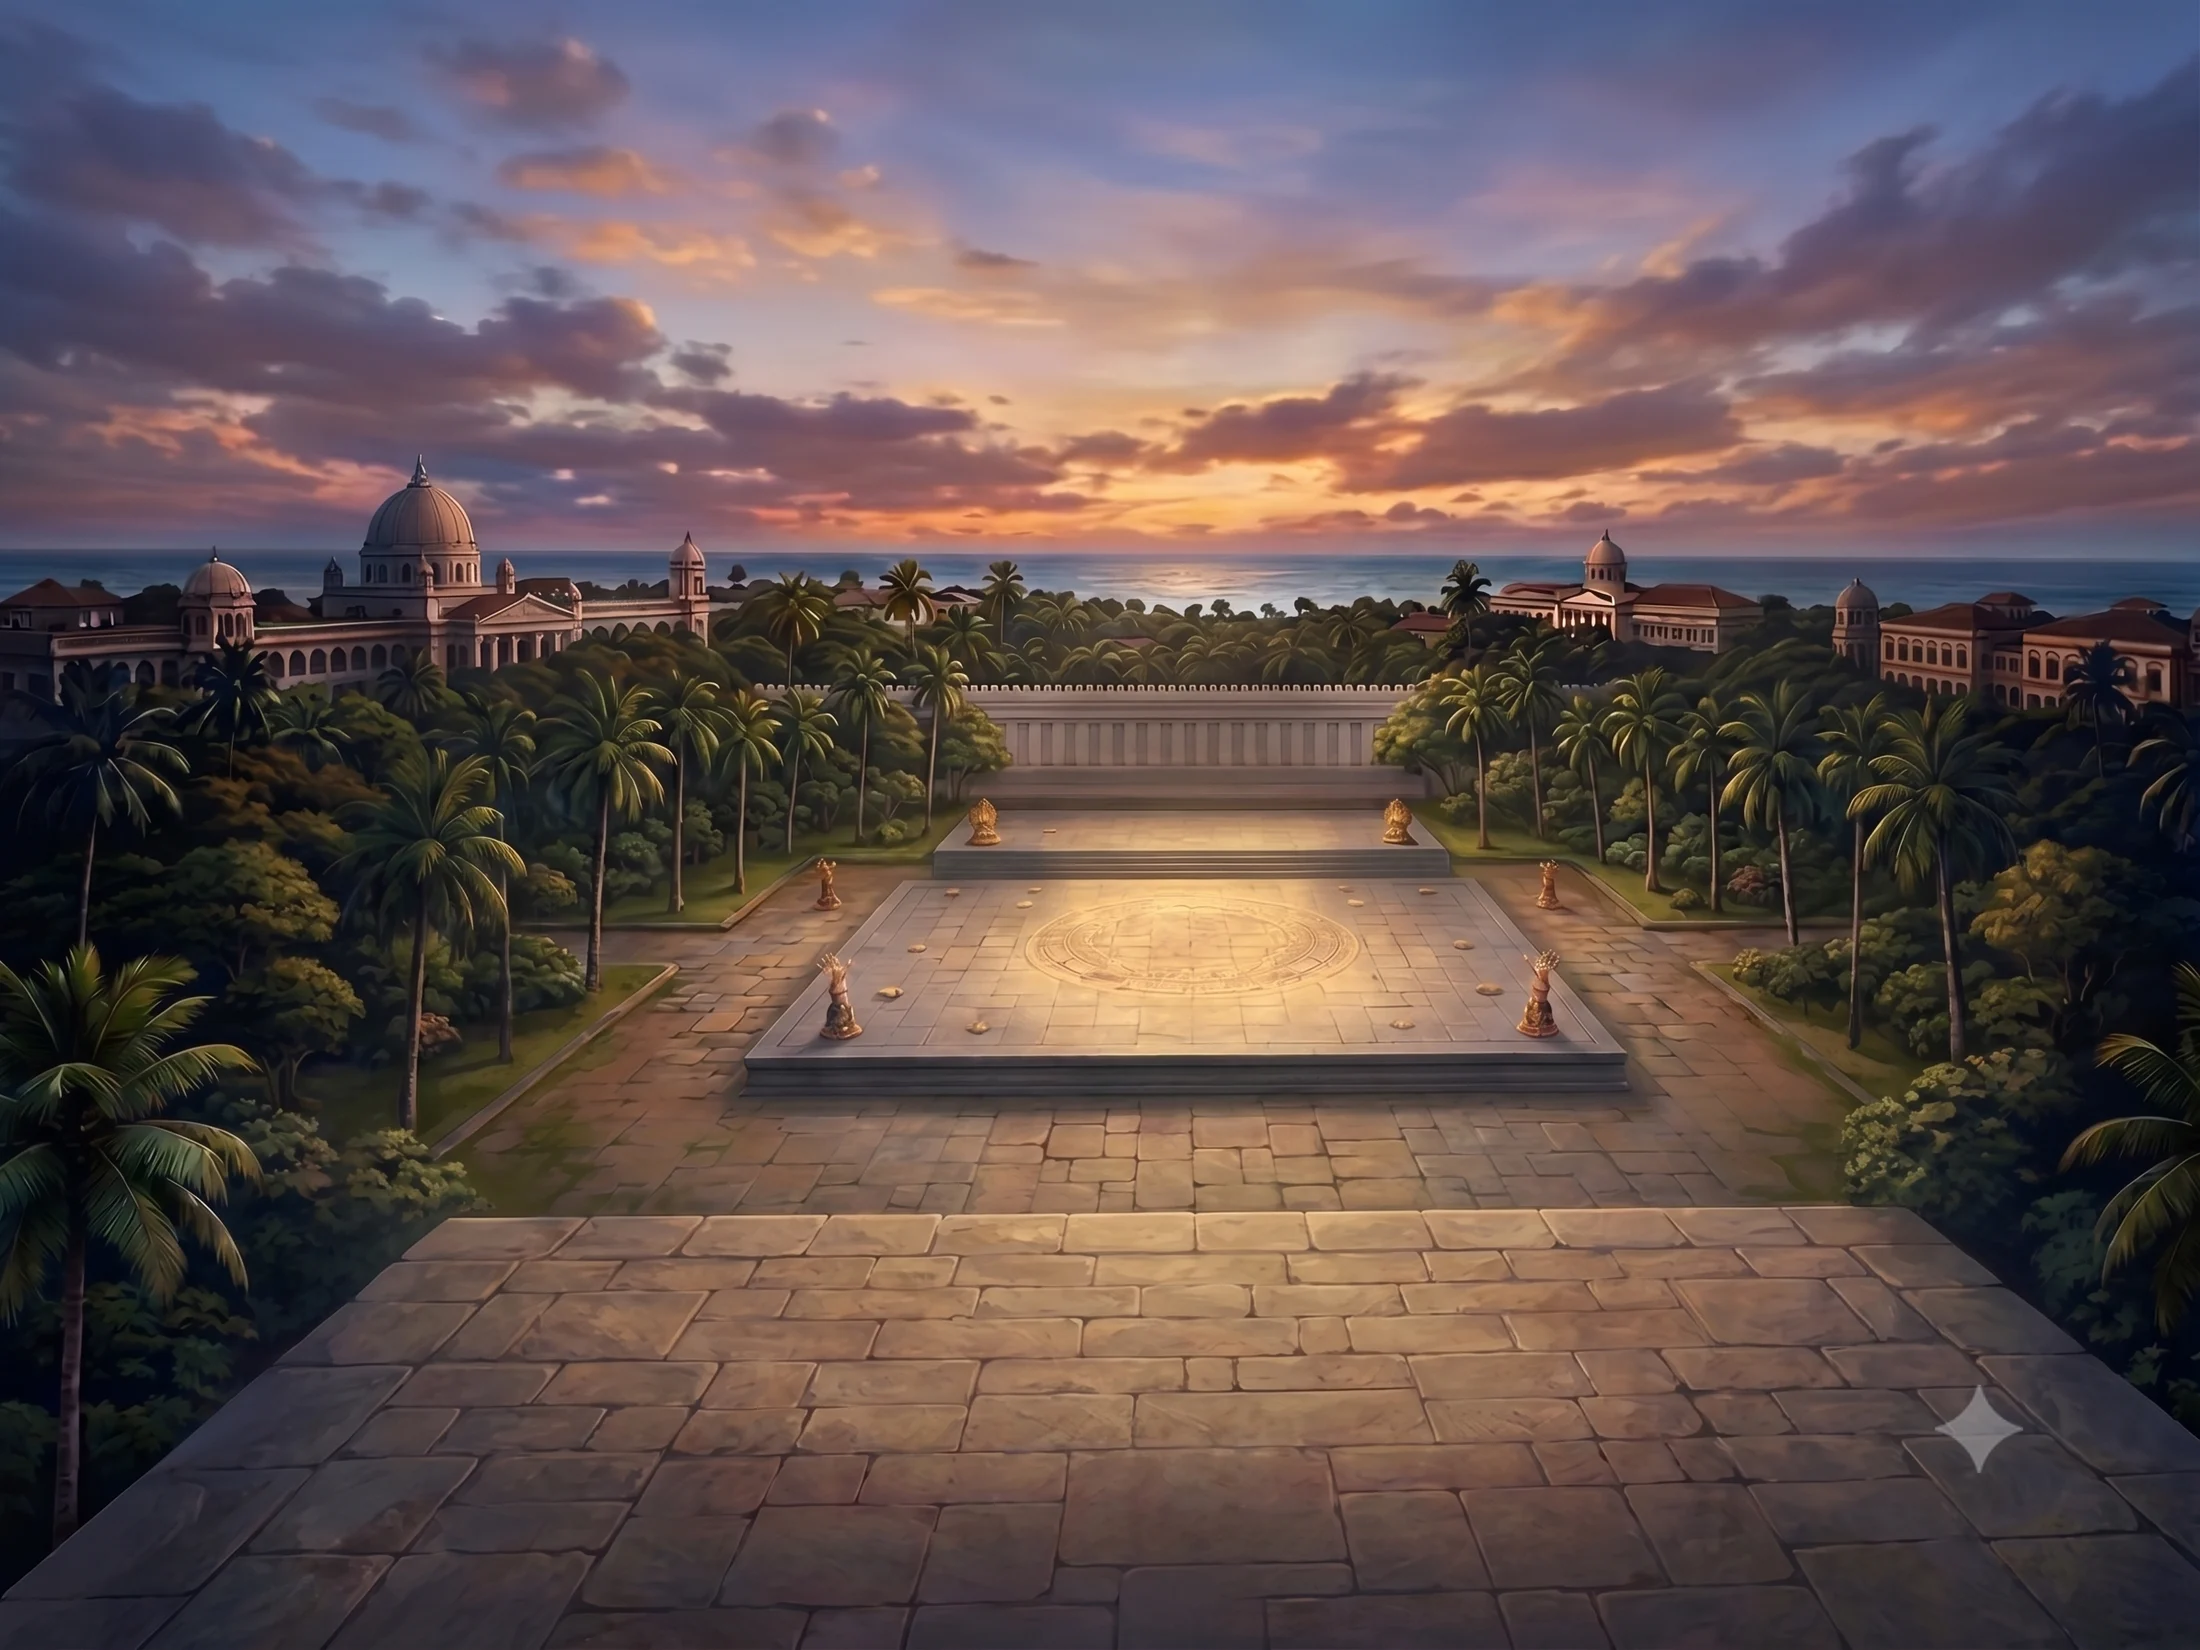
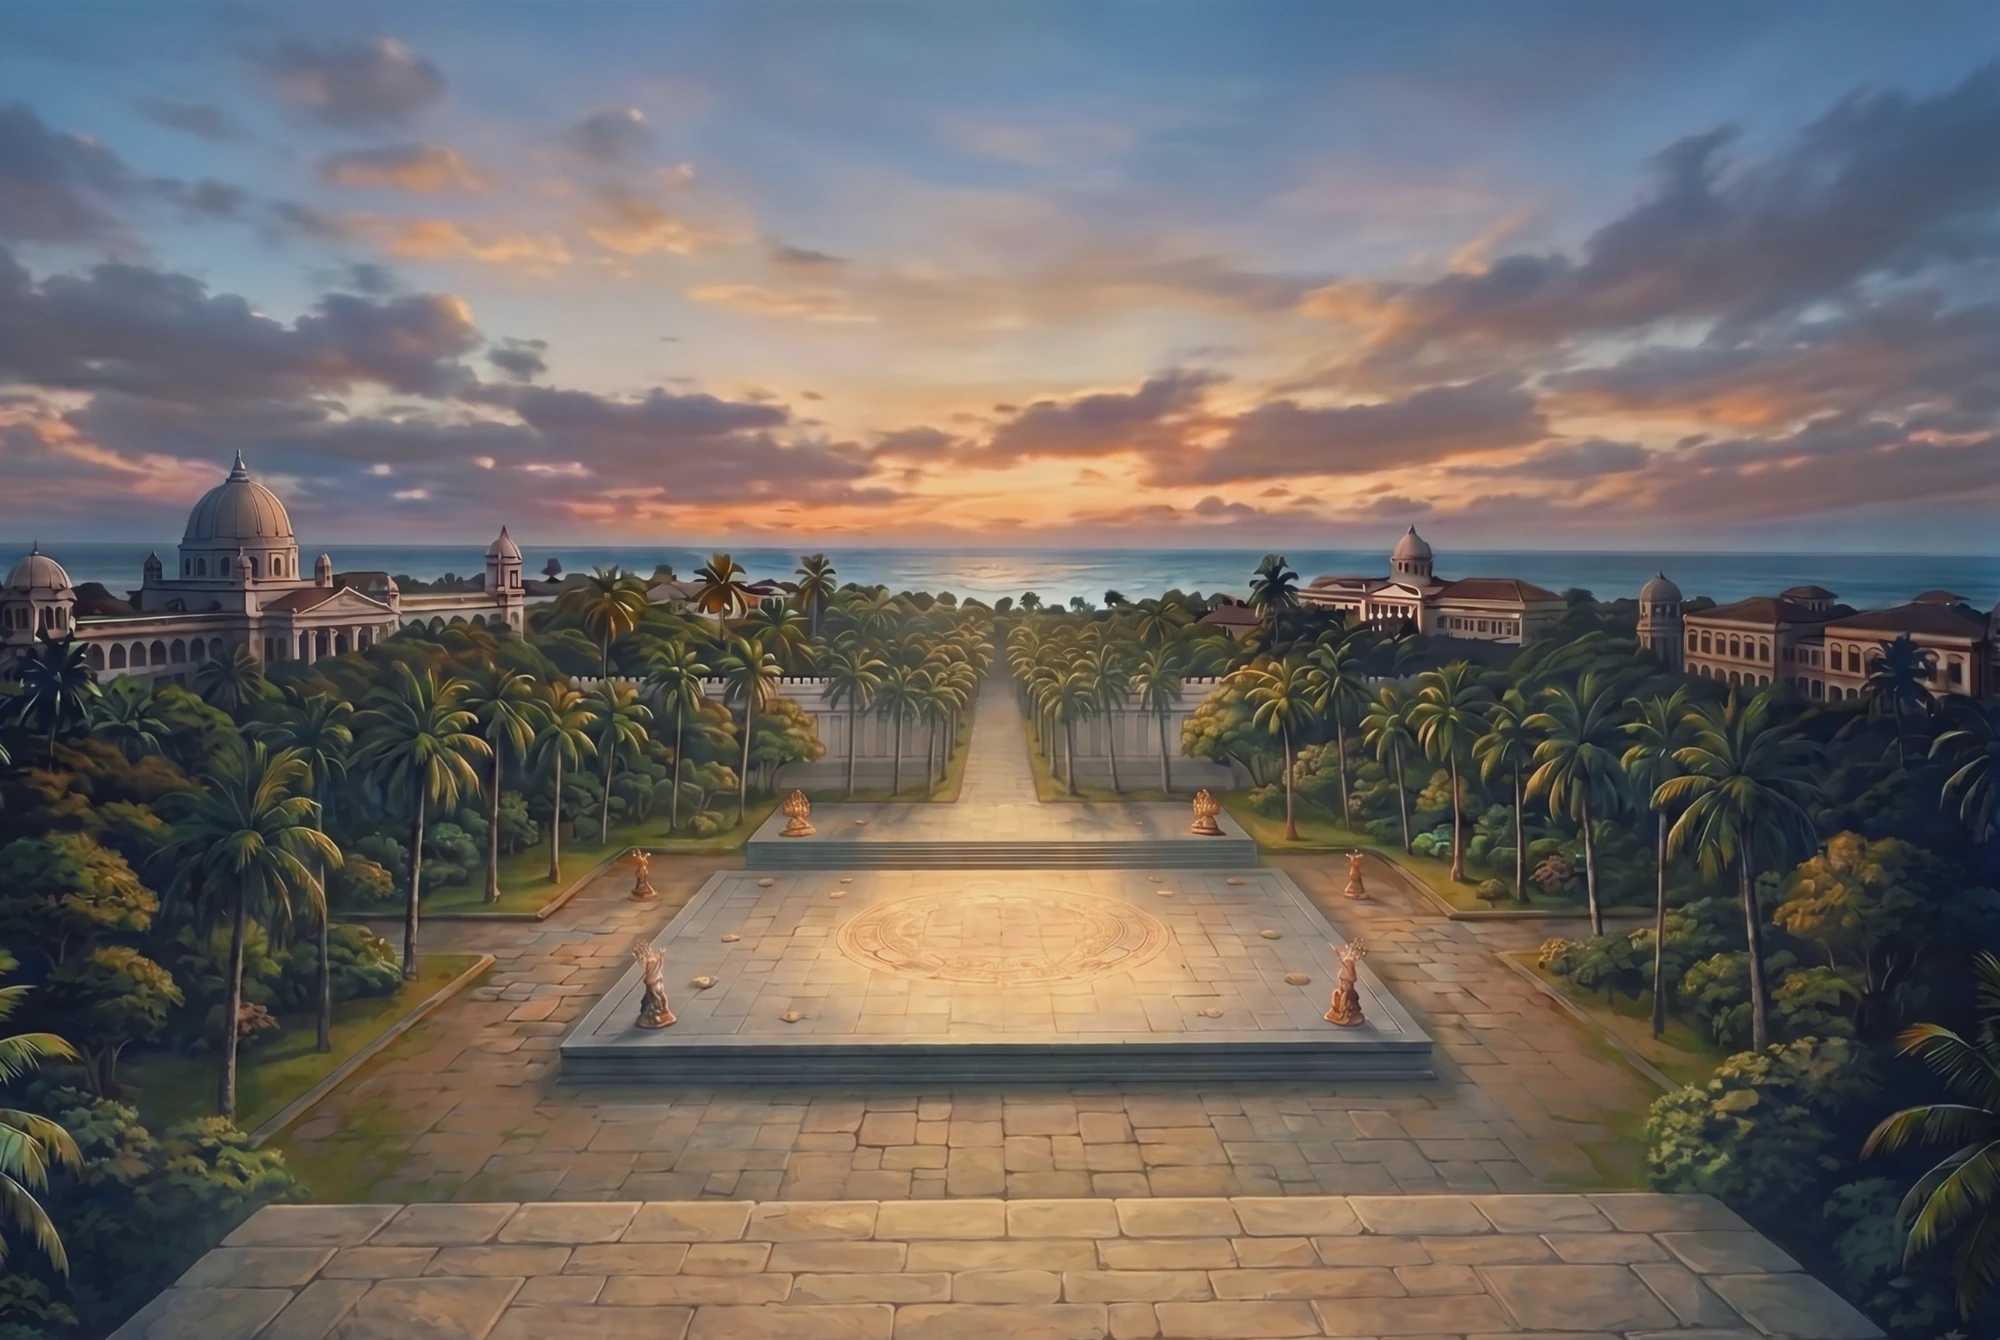
Swap hero backdrop to the wider courtyard crop, realign temple/altar
The old backdrop (aspect 2390:1792) was noticeably narrower than typical
desktop browser windows, so the aspect-ratio-locked scene box overflowed
vertically and got cropped hard — statues/temple filled almost the whole
frame with the sky and courtyard barely visible. Assets/Natyanjali
Hero/Background image.png crops much closer to the viewport's natural
aspect ratio, so far less gets cut off at typical window sizes. Koburam
and the Sivalingam/Nandhi altar group are repositioned (bottom: 39% and
23%) to sit back on this backdrop's own platform artwork, measured by
pixel-sampling where the painted steps/mandala actually fall.

diff --git a/components/Hero.tsx b/components/Hero.tsx
@@ -70,13 +70,13 @@ export default function Hero() {
            land on the same spot in the painting regardless of viewport shape ===== */}
       <div className="courtyard-scene absolute z-0 pointer-events-none" aria-hidden
            style={{ top: '50%', left: '50%', transform: 'translate(-50%,-50%)',
-                    width: 'max(100%, calc(100vh * 2390 / 1792))', aspectRatio: '2390 / 1792' }}>
+                    width: 'max(100%, calc(100vh * 2000 / 1340))', aspectRatio: '2000 / 1340' }}>
         <Image src="/images/courtyard-backdrop.webp" alt="New Kathiresan Kovil courtyard at dusk" fill priority quality={90}
                sizes="100vw" className="object-cover" />
 
         {/* Koburam — rises behind the altar platform, centered between the palm trees */}
         <div className="koburam-layer absolute pointer-events-none"
-             style={{ width: '13%', bottom: '52%', left: '50%', transform: 'translateX(-50%)', aspectRatio: '2000 / 1985' }}>
+             style={{ width: '13%', bottom: '39%', left: '50%', transform: 'translateX(-50%)', aspectRatio: '2000 / 1985' }}>
           <Image src="/images/koburam.webp" alt="Koburam — temple tower" fill quality={90}
                  sizes="(max-width: 768px) 26vw, 280px" className="object-contain"
                  style={{ objectPosition: 'center bottom', filter: 'drop-shadow(0 10px 20px rgba(0,0,0,.5))' }} />
@@ -85,7 +85,7 @@ export default function Hero() {
         {/* Altar group — Sivalingam (glowing, neon-rimmed) with Nandhi seated in front, on the mandala platform.
             All three (Koburam above, Sivalingam+Nandhi here) share left:50% of the same courtyard-scene box,
             so they sit on one shared vertical centerline. */}
-        <div className="altar-layer absolute pointer-events-none" style={{ left: '50%', bottom: '37%', transform: 'translateX(-50%)', width: '11%', aspectRatio: '1 / 1' }}>
+        <div className="altar-layer absolute pointer-events-none" style={{ left: '50%', bottom: '23%', transform: 'translateX(-50%)', width: '11%', aspectRatio: '1 / 1' }}>
           {/* soft golden glow */}
           <div className="absolute pointer-events-none"
                style={{ bottom: '22%', left: '54%', width: '92%', height: '78%', transform: 'translate(-50%,0)',